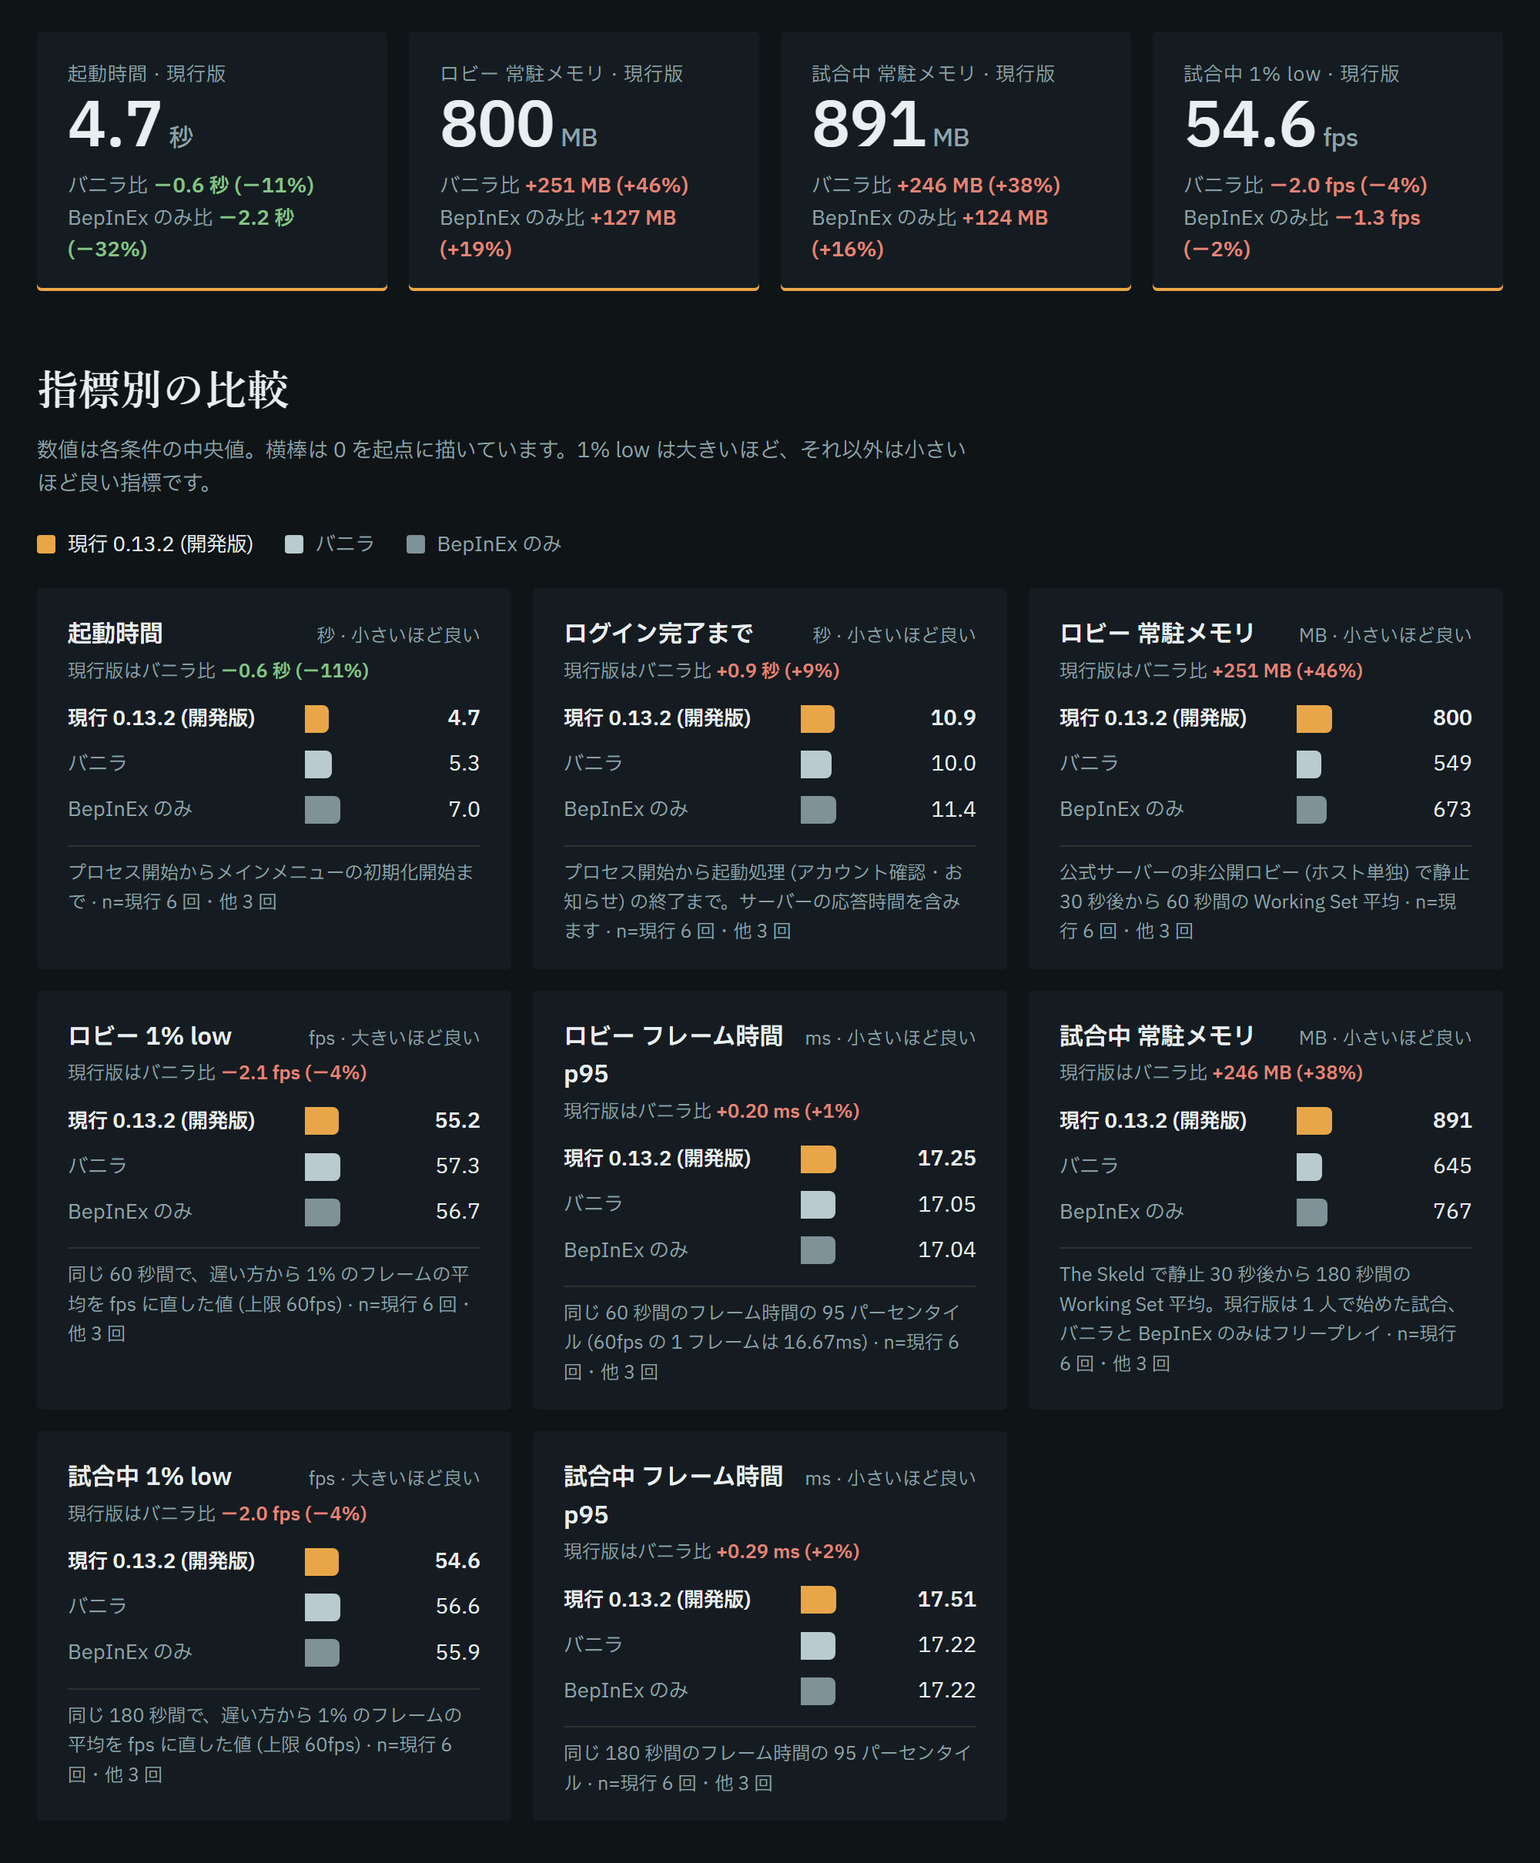
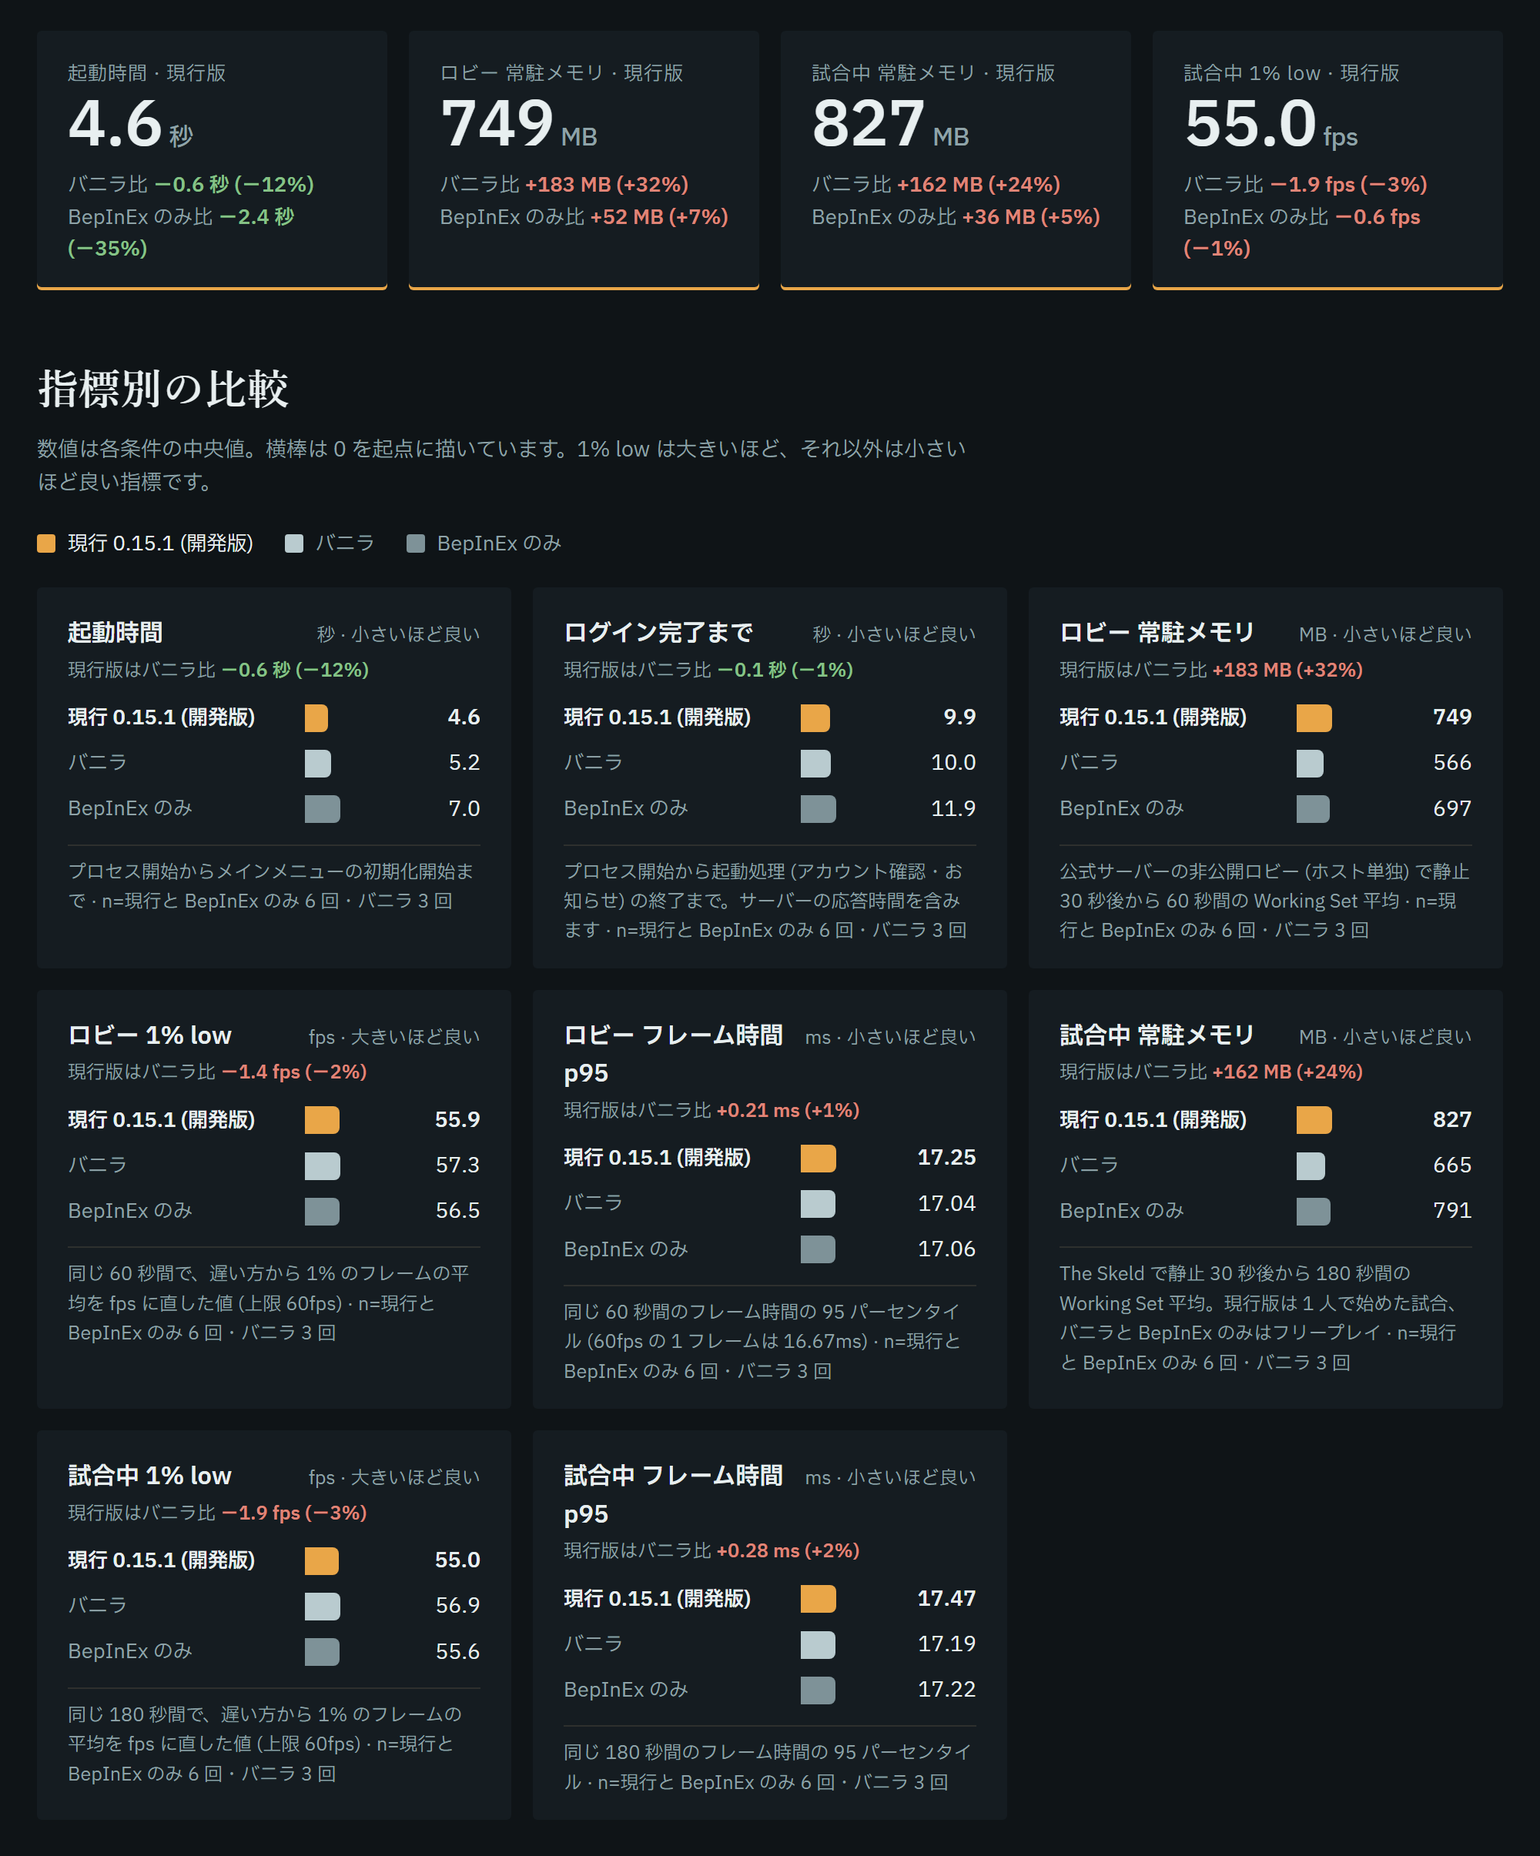
性能比較の数字を 0.15.1 開発版の測り直しに差し替えました、試合中は827MBまで下がっています

diff --git a/site/perf.html b/site/perf.html
@@ -100,8 +100,8 @@ img{max-width:100%}
 
 <div class="wrap">
   <header>
-    <div class="eyebrow">Performance report · 2026-10-16 · Among Us 2026.9.29 (Steam)</div>
-    <h1>End K not 性能比較<span class="en">0.13.2 dev · BepInEx · vanilla</span></h1>
+    <div class="eyebrow">Performance report · 2026-10-26 · Among Us 2026.9.29 (Steam)</div>
+    <h1>End K not 性能比較<span class="en">0.15.1 dev · BepInEx · vanilla</span></h1>
     <p class="lede" id="lede"></p>
   </header>
 
@@ -127,37 +127,37 @@ img{max-width:100%}
 
 <script>
 const ARMS = [
-  { key: 'current', name: '現行 0.13.2 (開発版)', color: 'var(--c-current)', hi: true },
+  { key: 'current', name: '現行 0.15.1 (開発版)', color: 'var(--c-current)', hi: true },
   { key: 'vanilla', name: 'バニラ',        color: 'var(--c-vanilla)' },
   { key: 'bepinex', name: 'BepInEx のみ',  color: 'var(--c-old)' },
 ];
 
 // 中央値。dp = 表示する小数桁。higher = 大きいほど良い指標。
 const METRICS = [
-  { key: 'boot',      name: '起動時間',           unit: '秒',  dp: 1, n: '現行 6 回・他 3 回',
+  { key: 'boot',      name: '起動時間',           unit: '秒',  dp: 1, n: '現行と BepInEx のみ 6 回・バニラ 3 回',
     desc: 'プロセス開始からメインメニューの初期化開始まで',
-    v: { vanilla: 5.33, bepinex: 6.96, current: 4.74 } },
-  { key: 'login',     name: 'ログイン完了まで',     unit: '秒',  dp: 1, n: '現行 6 回・他 3 回',
+    v: { vanilla: 5.19, bepinex: 7.01, current: 4.58 } },
+  { key: 'login',     name: 'ログイン完了まで',     unit: '秒',  dp: 1, n: '現行と BepInEx のみ 6 回・バニラ 3 回',
     desc: 'プロセス開始から起動処理 (アカウント確認・お知らせ) の終了まで。サーバーの応答時間を含みます',
-    v: { vanilla: 10.00, bepinex: 11.42, current: 10.87 } },
-  { key: 'lobby_ws',  name: 'ロビー 常駐メモリ',   unit: 'MB', dp: 0, n: '現行 6 回・他 3 回',
+    v: { vanilla: 9.97, bepinex: 11.91, current: 9.86 } },
+  { key: 'lobby_ws',  name: 'ロビー 常駐メモリ',   unit: 'MB', dp: 0, n: '現行と BepInEx のみ 6 回・バニラ 3 回',
     desc: '公式サーバーの非公開ロビー (ホスト単独) で静止 30 秒後から 60 秒間の Working Set 平均',
-    v: { vanilla: 549, bepinex: 673, current: 800 } },
-  { key: 'lobby_low', name: 'ロビー 1% low',      unit: 'fps', dp: 1, higher: true, n: '現行 6 回・他 3 回',
+    v: { vanilla: 566, bepinex: 697, current: 749 } },
+  { key: 'lobby_low', name: 'ロビー 1% low',      unit: 'fps', dp: 1, higher: true, n: '現行と BepInEx のみ 6 回・バニラ 3 回',
     desc: '同じ 60 秒間で、遅い方から 1% のフレームの平均を fps に直した値 (上限 60fps)',
-    v: { vanilla: 57.3, bepinex: 56.7, current: 55.2 } },
-  { key: 'lobby_p95', name: 'ロビー フレーム時間 p95', unit: 'ms', dp: 2, n: '現行 6 回・他 3 回',
+    v: { vanilla: 57.3, bepinex: 56.5, current: 55.9 } },
+  { key: 'lobby_p95', name: 'ロビー フレーム時間 p95', unit: 'ms', dp: 2, n: '現行と BepInEx のみ 6 回・バニラ 3 回',
     desc: '同じ 60 秒間のフレーム時間の 95 パーセンタイル (60fps の 1 フレームは 16.67ms)',
-    v: { vanilla: 17.05, bepinex: 17.04, current: 17.25 } },
-  { key: 'game_ws',   name: '試合中 常駐メモリ',   unit: 'MB', dp: 0, n: '現行 6 回・他 3 回',
+    v: { vanilla: 17.04, bepinex: 17.06, current: 17.25 } },
+  { key: 'game_ws',   name: '試合中 常駐メモリ',   unit: 'MB', dp: 0, n: '現行と BepInEx のみ 6 回・バニラ 3 回',
     desc: 'The Skeld で静止 30 秒後から 180 秒間の Working Set 平均。現行版は 1 人で始めた試合、バニラと BepInEx のみはフリープレイ',
-    v: { vanilla: 645, bepinex: 767, current: 891 } },
-  { key: 'game_low',  name: '試合中 1% low',      unit: 'fps', dp: 1, higher: true, n: '現行 6 回・他 3 回',
+    v: { vanilla: 665, bepinex: 791, current: 827 } },
+  { key: 'game_low',  name: '試合中 1% low',      unit: 'fps', dp: 1, higher: true, n: '現行と BepInEx のみ 6 回・バニラ 3 回',
     desc: '同じ 180 秒間で、遅い方から 1% のフレームの平均を fps に直した値 (上限 60fps)',
-    v: { vanilla: 56.6, bepinex: 55.9, current: 54.6 } },
-  { key: 'game_p95',  name: '試合中 フレーム時間 p95', unit: 'ms', dp: 2, n: '現行 6 回・他 3 回',
+    v: { vanilla: 56.9, bepinex: 55.6, current: 55.0 } },
+  { key: 'game_p95',  name: '試合中 フレーム時間 p95', unit: 'ms', dp: 2, n: '現行と BepInEx のみ 6 回・バニラ 3 回',
     desc: '同じ 180 秒間のフレーム時間の 95 パーセンタイル',
-    v: { vanilla: 17.22, bepinex: 17.22, current: 17.51 } },
+    v: { vanilla: 17.19, bepinex: 17.22, current: 17.47 } },
 ];
 METRICS.forEach(m => { m.fmt = v => m.dp ? v.toFixed(m.dp) : Math.round(v).toLocaleString(); });
 
@@ -168,38 +168,41 @@ const HISTORY = [
     ['2026-09-05', 'v0.9.7 開発版', '11.1', '5.9'],
     ['2026-10-03', '0.11.1 開発版', '4.4', '5.2'],
     ['2026-10-16', '0.13.2 開発版', '4.7', '5.3'],
+    ['2026-10-26', '0.15.1 開発版', '4.6', '5.2'],
   ]],
   ['ロビー 常駐メモリ (MB)', [
     ['2026-09-05', 'v0.9.6-beta', '970', '—'],
     ['2026-09-05', 'v0.9.7 開発版', '908', '—'],
     ['2026-10-03', '0.11.1 開発版', '779', '532'],
     ['2026-10-16', '0.13.2 開発版', '800', '549'],
+    ['2026-10-26', '0.15.1 開発版', '749', '566'],
   ]],
   ['試合中 常駐メモリ (MB)', [
     ['2026-09-05', 'v0.9.6-beta', '1,065', '—'],
     ['2026-09-05', 'v0.9.7 開発版', '1,019', '—'],
     ['2026-10-03', '0.11.1 開発版', '985', '629'],
     ['2026-10-16', '0.13.2 開発版', '891', '645'],
+    ['2026-10-26', '0.15.1 開発版', '827', '665'],
   ]],
 ];
 
 const CONDITIONS = [
   ['機材', 'Ryzen 5 3600 / Windows 11 / Among Us 2026.9.29 Steam 版・同一 PC'],
-  ['計測日', '2026-10-16。3 条件とも同じ日に、同じ道具・同じ手順で測っています'],
+  ['計測日', '2026-10-26。3 条件とも同じ日に、同じ道具・同じ手順で測っています'],
   ['インストール', 'Steam 版を条件ごとに別フォルダへ複製して直接起動。条件どうしでファイルを共有しません'],
   ['起動', 'プロセス開始時刻を原点に、ゲーム本体のログでメインメニューの初期化開始と起動処理の終了を検知した時刻 (全条件で同じ外部時計)。ファイルを入れ替えた直後の 1 回目は数えません'],
   ['フレーム', 'PresentMon で提示間隔を記録。ゲームの窓を前面にし、キャラクターを動かさずに採取。フレームレートの上限は 60fps のまま'],
   ['ロビー', '公式サーバーで非公開ロビーをホスト単独で作成し、静止 30 秒後から 60 秒'],
   ['試合中', 'The Skeld で静止 30 秒後から 180 秒。現行版は 1 人で始めた試合、バニラと BepInEx のみは 1 人で試合を始められないのでフリープレイ'],
   ['メモリ', '採取中の Working Set の平均。回ごとに出して、回の中央値を掲載'],
-  ['現行版', '0.13.2 開発版 (2026-10-16 のビルド)。機能は既定設定のまま。配布版は開発用の告知バナーや診断機能を含まないぶん、これより軽く動きます'],
+  ['現行版', '0.15.1 開発版 (2026-10-26 のビルド)。配布版と同じ構成でビルドし、機能は既定設定のまま。配布版には無い開発用の告知バナーと計測用の機能を含みます'],
   ['BepInEx のみ', 'mod DLL を外した BepInEx + Il2CppInterop の土台だけ。mod の上乗せ分を切り分けるための基準'],
 ];
 const NOTES = [
   'Working Set は OS の裁量で ±15MB 程度揺れるため、この幅の差は有意ではありません。',
-  'バニラと BepInEx のみは 3 回、現行版は 6 回の中央値です。',
-  '起動時間はメニューの初期化が始まるまでで、ログインの完了を含みません。ログイン完了までで比べると 3 条件の差は 1.5 秒以内です。',
-  '1% low の差は、数十秒に 1 回のメモリ回収で 1 フレームが長くなることによるものです。最長のフレームは、現行版が多くの回で 20〜27ms、バニラが 18〜19ms でした。33ms を超えたフレームは、現行版 12 回の採取のうち 2 回で出ました (ロビーの 1 回で 13 フレーム、試合中の 1 回で 3 フレーム)。',
+  'バニラは 3 回、BepInEx のみと現行版は 6 回の中央値です。',
+  '起動時間はメニューの初期化が始まるまでで、ログインの完了を含みません。ログイン完了までで比べると、現行版 9.9 秒・バニラ 10.0 秒・BepInEx のみ 11.9 秒です。',
+  '1% low の差は、数十秒に 1 回のメモリ回収で 1 フレームが長くなることによるものです。最長のフレームは、現行版がロビーで 19ms 前後・試合中で 21〜26ms、バニラが 18〜19ms、BepInEx のみが 27〜31ms でした。33ms を超えたフレームは、どの条件の採取にもありませんでした。',
 ];
 </script>
 <script id="fill"></script>

diff --git a/README.md b/README.md
@@ -151,24 +151,24 @@
 <details>
 <summary><b>計測結果を開く（起動時間・常駐メモリ・フレーム時間）</b></summary>
 
-同一 PC で「バニラ / BepInEx のみ / 現行 0.13.2 開発版」を同じ日に同じ手順で測り、中央値で比べました (2026-10-16・Among Us 2026.9.29 Steam 版)。
+同一 PC で「バニラ / BepInEx のみ / 現行 0.15.1 開発版」を同じ日に同じ手順で測り、中央値で比べました (2026-10-26・Among Us 2026.9.29 Steam 版)。
 
-| 指標 | バニラ | BepInEx のみ | 現行 0.13.2 開発版 |
+| 指標 | バニラ | BepInEx のみ | 現行 0.15.1 開発版 |
 |---|---:|---:|---:|
-| 起動時間 (秒) | 5.3 | 7.0 | **4.7** |
-| ログイン完了まで (秒) | 10.0 | 11.4 | **10.9** |
-| ロビー 常駐メモリ (MB) | 549 | 673 | **800** |
-| ロビー 1% low (fps) | 57.3 | 56.7 | **55.2** |
-| ロビー フレーム時間 p95 (ms) | 17.05 | 17.04 | **17.25** |
-| 試合中 常駐メモリ (MB) | 645 | 767 | **891** |
-| 試合中 1% low (fps) | 56.6 | 55.9 | **54.6** |
-| 試合中 フレーム時間 p95 (ms) | 17.22 | 17.22 | **17.51** |
+| 起動時間 (秒) | 5.2 | 7.0 | **4.6** |
+| ログイン完了まで (秒) | 10.0 | 11.9 | **9.9** |
+| ロビー 常駐メモリ (MB) | 566 | 697 | **749** |
+| ロビー 1% low (fps) | 57.3 | 56.5 | **55.9** |
+| ロビー フレーム時間 p95 (ms) | 17.04 | 17.06 | **17.25** |
+| 試合中 常駐メモリ (MB) | 665 | 791 | **827** |
+| 試合中 1% low (fps) | 56.9 | 55.6 | **55.0** |
+| 試合中 フレーム時間 p95 (ms) | 17.19 | 17.22 | **17.47** |
 
 <p align="center"><img src=".github/perf-chart.png" alt="End K not 性能比較グラフ" width="90%"></p>
 
-起動時間は、メインメニューの初期化が始まるまでの時間です。ロビーは公式サーバーの非公開ロビーにホスト 1 人、試合中は The Skeld で、どちらも動かずに採取しています (上限 60fps)。試合中は現行版が 1 人で始めた試合、バニラと BepInEx のみはフリープレイです。現行版の数字は開発ビルドで測ったものです。配布版は開発用の告知バナーや診断機能を含まないぶん、これより軽く動きます。
+起動時間は、メインメニューの初期化が始まるまでの時間です。ロビーは公式サーバーの非公開ロビーにホスト 1 人、試合中は The Skeld で、どちらも動かずに採取しています (上限 60fps)。試合中は現行版が 1 人で始めた試合、バニラと BepInEx のみはフリープレイです。現行版は配布版と同じ構成でビルドした開発版で測っています。配布版には無い開発用の告知バナーと計測用の機能を含みます。
 
-これまでの起動時間は v0.9.6 が 16.4 秒、v0.9.7 が 11.1 秒、0.11.1 開発版が 4.4 秒でした (v0.9.6・v0.9.7 は 2026-09-05・Epic 版 2026.8.18 での計測で、同じ回のバニラは 5.9 秒。0.11.1 は 2026-10-03 の計測で、バニラは 5.2 秒)。試合中の常駐メモリは 0.11.1 開発版の 985MB から 891MB に減りました。
+これまでの起動時間は v0.9.6 が 16.4 秒、v0.9.7 が 11.1 秒、0.11.1 開発版が 4.4 秒、0.13.2 開発版が 4.7 秒でした (v0.9.6・v0.9.7 は 2026-09-05・Epic 版 2026.8.18 での計測で、同じ回のバニラは 5.9 秒。0.11.1 は 2026-10-03、0.13.2 は 2026-10-16 の計測で、バニラはそれぞれ 5.2 秒・5.3 秒)。試合中の常駐メモリは 0.11.1 開発版の 985MB、0.13.2 開発版の 891MB から 827MB に減りました。
 
 </details>
 

diff --git a/README-EN.md b/README-EN.md
@@ -150,24 +150,24 @@ We aim to keep boot time and resident memory close to vanilla. You'll find the t
 <details>
 <summary><b>Show the measurements (boot time, resident memory and frame time)</b></summary>
 
-We measured "vanilla / BepInEx only / current 0.13.2 dev build" on the same day with the same procedure on the same PC (2026-10-16, Among Us 2026.9.29 on Steam). The table shows medians.
+We measured "vanilla / BepInEx only / current 0.15.1 dev build" on the same day with the same procedure on the same PC (2026-10-26, Among Us 2026.9.29 on Steam). The table shows medians.
 
-| Metric | Vanilla | BepInEx only | Current 0.13.2 dev |
+| Metric | Vanilla | BepInEx only | Current 0.15.1 dev |
 |---|---:|---:|---:|
-| Boot time (s) | 5.3 | 7.0 | **4.7** |
-| Time to login complete (s) | 10.0 | 11.4 | **10.9** |
-| Lobby resident memory (MB) | 549 | 673 | **800** |
-| Lobby 1% low (fps) | 57.3 | 56.7 | **55.2** |
-| Lobby frame time p95 (ms) | 17.05 | 17.04 | **17.25** |
-| In-game resident memory (MB) | 645 | 767 | **891** |
-| In-game 1% low (fps) | 56.6 | 55.9 | **54.6** |
-| In-game frame time p95 (ms) | 17.22 | 17.22 | **17.51** |
+| Boot time (s) | 5.2 | 7.0 | **4.6** |
+| Time to login complete (s) | 10.0 | 11.9 | **9.9** |
+| Lobby resident memory (MB) | 566 | 697 | **749** |
+| Lobby 1% low (fps) | 57.3 | 56.5 | **55.9** |
+| Lobby frame time p95 (ms) | 17.04 | 17.06 | **17.25** |
+| In-game resident memory (MB) | 665 | 791 | **827** |
+| In-game 1% low (fps) | 56.9 | 55.6 | **55.0** |
+| In-game frame time p95 (ms) | 17.19 | 17.22 | **17.47** |
 
 <p align="center"><img src=".github/perf-chart.png" alt="End K not performance comparison chart" width="90%"></p>
 
-Boot time runs until the main menu starts initializing. Lobby is a private lobby on the official servers with the host alone, in-game is The Skeld, both sampled while standing still (60 fps cap). In-game uses a one-player match for the current build and Freeplay for vanilla and BepInEx only. The current-build numbers come from a development build. The published build leaves out the developer notice banner and diagnostics, so it runs lighter than this.
+Boot time runs until the main menu starts initializing. Lobby is a private lobby on the official servers with the host alone, in-game is The Skeld, both sampled while standing still (60 fps cap). In-game uses a one-player match for the current build and Freeplay for vanilla and BepInEx only. The current build is a development build compiled with the same configuration as the published one. It still includes the developer notice banner and measurement hooks that the published build leaves out.
 
-Earlier boot times were 16.4 s for v0.9.6, 11.1 s for v0.9.7 and 4.4 s for the 0.11.1 dev build (v0.9.6 and v0.9.7 measured 2026-09-05 on the Epic build of 2026.8.18, with vanilla at 5.9 s in that run; 0.11.1 measured 2026-10-03, with vanilla at 5.2 s). In-game resident memory went down from 985 MB on the 0.11.1 dev build to 891 MB.
+Earlier boot times were 16.4 s for v0.9.6, 11.1 s for v0.9.7, 4.4 s for the 0.11.1 dev build and 4.7 s for the 0.13.2 dev build (v0.9.6 and v0.9.7 measured 2026-09-05 on the Epic build of 2026.8.18, with vanilla at 5.9 s in that run; 0.11.1 measured 2026-10-03 and 0.13.2 measured 2026-10-16, with vanilla at 5.2 s and 5.3 s). In-game resident memory went down from 985 MB on the 0.11.1 dev build and 891 MB on the 0.13.2 dev build to 827 MB.
 
 </details>
 
